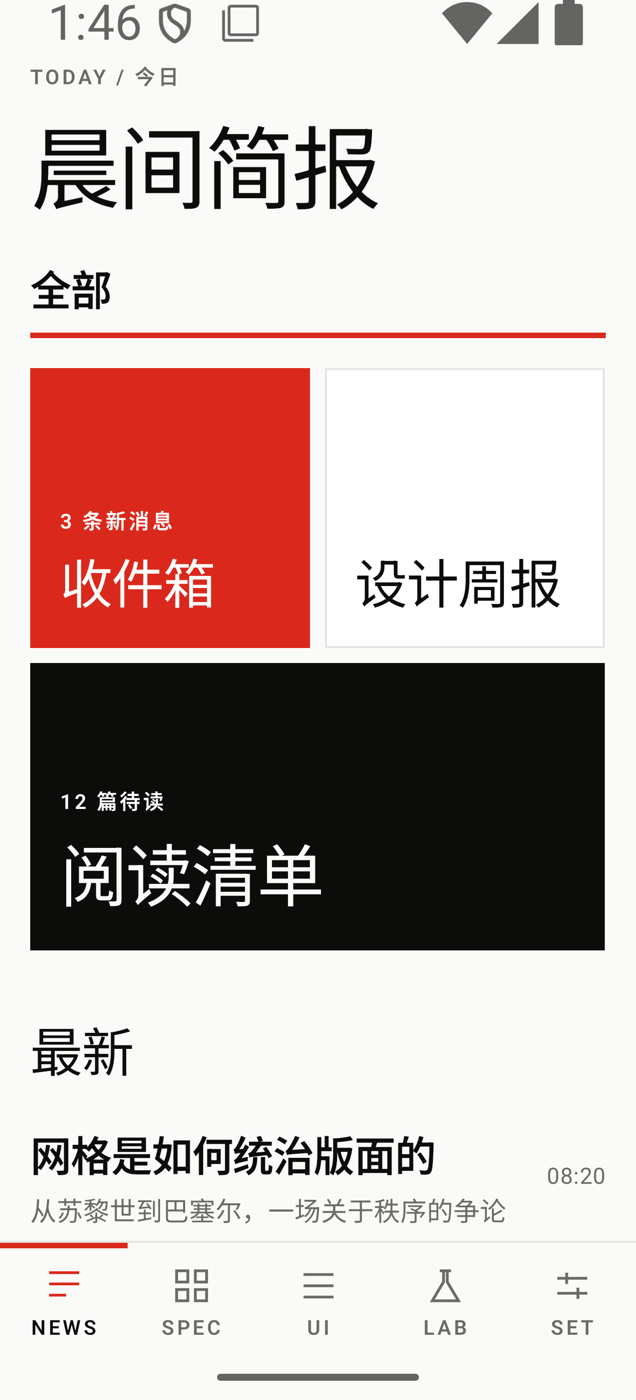
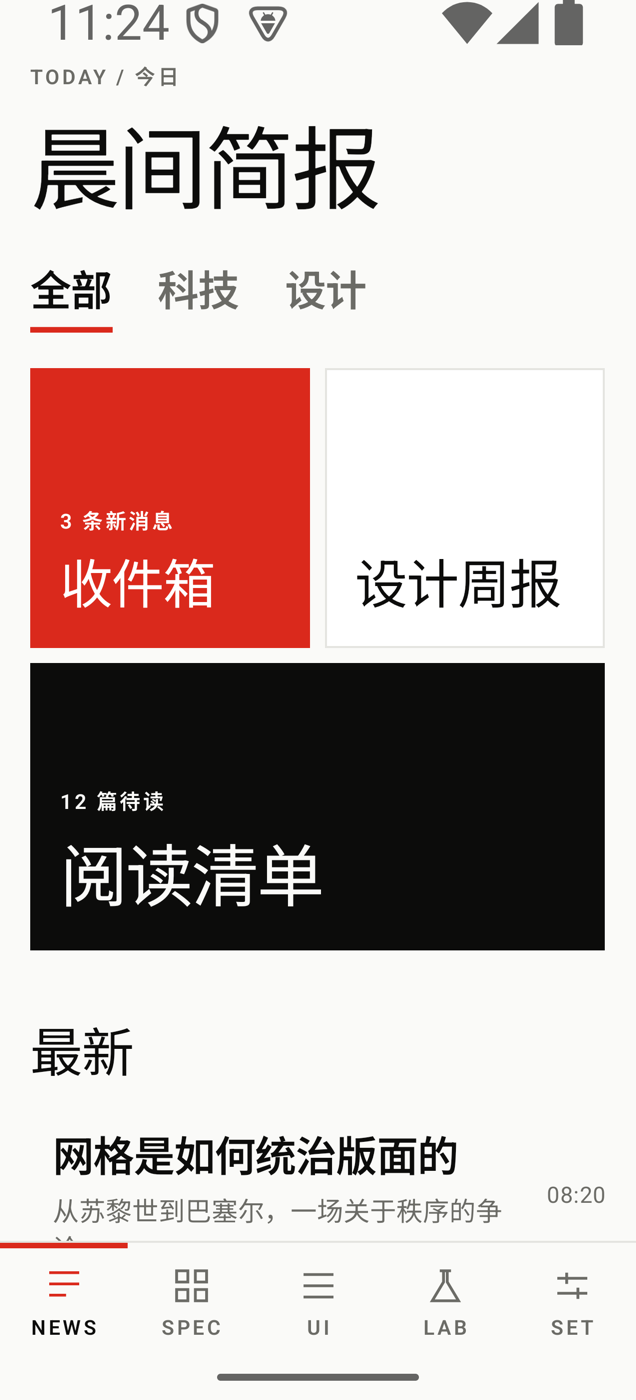
fix: v0.17.3 OmPivot 只显示第一个页签
指示条用 fillMaxWidth 的子 Box 实现，在 Row 里把整列撑到全宽，
第二个及以后的页签被推出屏幕 —— 从 0.5.0 起就存在。

改为在列自身的 drawBehind 里按文字宽度绘制，并把高度计入底部内边距。

测试：pivot_selection_changes 改回触摸点击（之前靠语义 action 绕过）

diff --git a/omui-components/src/main/kotlin/io/openmetro/ui/component/navigation/OmPivot.kt b/omui-components/src/main/kotlin/io/openmetro/ui/component/navigation/OmPivot.kt
@@ -18,6 +18,9 @@ import androidx.compose.runtime.rememberCoroutineScope
 import androidx.compose.runtime.LaunchedEffect
 import androidx.compose.foundation.pager.PagerState
 import androidx.compose.ui.Modifier
+import androidx.compose.ui.geometry.Size
+import androidx.compose.ui.geometry.Offset
+import androidx.compose.ui.draw.drawBehind
 import androidx.compose.ui.graphics.Color
 import androidx.compose.ui.semantics.Role
 import androidx.compose.ui.text.style.TextOverflow
@@ -51,6 +54,7 @@ fun OmPivot(
     val spacing = OmTheme.spacing
     val typography = OmTheme.typography
     val scope = rememberCoroutineScope()
+    val accentBar = OmTheme.shapes.accentBar
 
     // 单向：pager -> onSelect。点击走 scrollToPage，再由这里回流，不会形成循环。
     if (pagerState != null) {
@@ -83,7 +87,19 @@ fun OmPivot(
                             onSelect(index)
                         }
                     }
-                    .padding(top = spacing.space2),
+                    .padding(top = spacing.space2, bottom = accentBar)
+                    // 指示条画在自身底部，宽度等于文字宽度。
+                    // 不能用 fillMaxWidth 的子 Box —— 那会把整列撑到全宽，后面的页签被推出屏幕。
+                    .drawBehind {
+                        if (selected) {
+                            val bar = accentBar.toPx()
+                            drawRect(
+                                color = colors.accent,
+                                topLeft = Offset(0f, size.height - bar),
+                                size = Size(size.width, bar),
+                            )
+                        }
+                    },
             ) {
                 OmText(
                     text = tab,
@@ -93,12 +109,6 @@ fun OmPivot(
                     overflow = TextOverflow.Ellipsis,
                 )
                 Spacer(Modifier.height(spacing.space2))
-                Box(
-                    Modifier
-                        .fillMaxWidth()
-                        .height(OmTheme.shapes.accentBar)
-                        .background(if (selected) colors.accent else Color.Transparent),
-                )
             }
         }
     }

diff --git a/omui-components/src/androidTest/kotlin/io/openmetro/ui/component/OmComponentBehaviorTest.kt b/omui-components/src/androidTest/kotlin/io/openmetro/ui/component/OmComponentBehaviorTest.kt
@@ -14,10 +14,8 @@ import androidx.compose.ui.test.junit4.v2.createComposeRule
 import androidx.compose.ui.test.onNodeWithContentDescription
 import androidx.compose.ui.test.onNodeWithText
 import androidx.compose.ui.test.performClick
-import androidx.compose.ui.test.performSemanticsAction
 import androidx.compose.ui.test.performTouchInput
 import androidx.compose.ui.test.swipeLeft
-import androidx.compose.ui.semantics.SemanticsActions
 import androidx.test.ext.junit.runners.AndroidJUnit4
 import io.openmetro.ui.component.base.OmText
 import io.openmetro.ui.component.button.OmButton
@@ -102,9 +100,8 @@ class OmComponentBehaviorTest {
             )
         }
 
-        // 文字节点自身没有点击动作，要点到带 click action 的父容器
-        rule.onNode(hasText("Two") and hasClickAction())
-            .performSemanticsAction(SemanticsActions.OnClick)
+        // 修复前第二个页签被推出屏幕，点击无效；现在可以走正常的触摸路径
+        rule.onNode(hasText("Two") and hasClickAction()).performClick()
         rule.waitForIdle()
         assertEquals(1, selected)
     }

diff --git a/CHANGELOG.md b/CHANGELOG.md
@@ -2,6 +2,13 @@
 
 按版本倒序，只列改了什么。
 
+## v0.17.3 · 2026-10-27
+
+### 修复
+
+- **`OmPivot` 从 0.5.0 起就只显示第一个页签**：指示条是用 `fillMaxWidth()` 的子 `Box` 实现的，放在 `Row` 里会把整列撑到全宽，第二个及以后的页签被推出屏幕右侧。改为在列自身的 `drawBehind` 里按文字宽度绘制，并把 3dp 高度计入底部内边距。
+- 这个问题被组件测试暴露：`pivot_selection_changes` 点不到第二个页签，改用语义 action 能通过 —— 说明不是点击逻辑坏，而是页签根本不在屏幕内。
+
 ## v0.17.2 · 2026-10-27
 
 组件测试从 9 个扩到 18 个，新测试又抓到两个无障碍缺陷。

diff --git a/README.md b/README.md
@@ -44,7 +44,7 @@ Spectrum tiles are opt-in. The eight hues share fixed lightness and chroma in OK
 ### 2.1 Maven Central
 
 ```kotlin
-implementation("io.github.jeta1me1plus:omui-components:0.17.2")
+implementation("io.github.jeta1me1plus:omui-components:0.17.3")
 ```
 
 No extra repository config needed. Verified by resolving the published artifact with `mavenCentral()` only.
